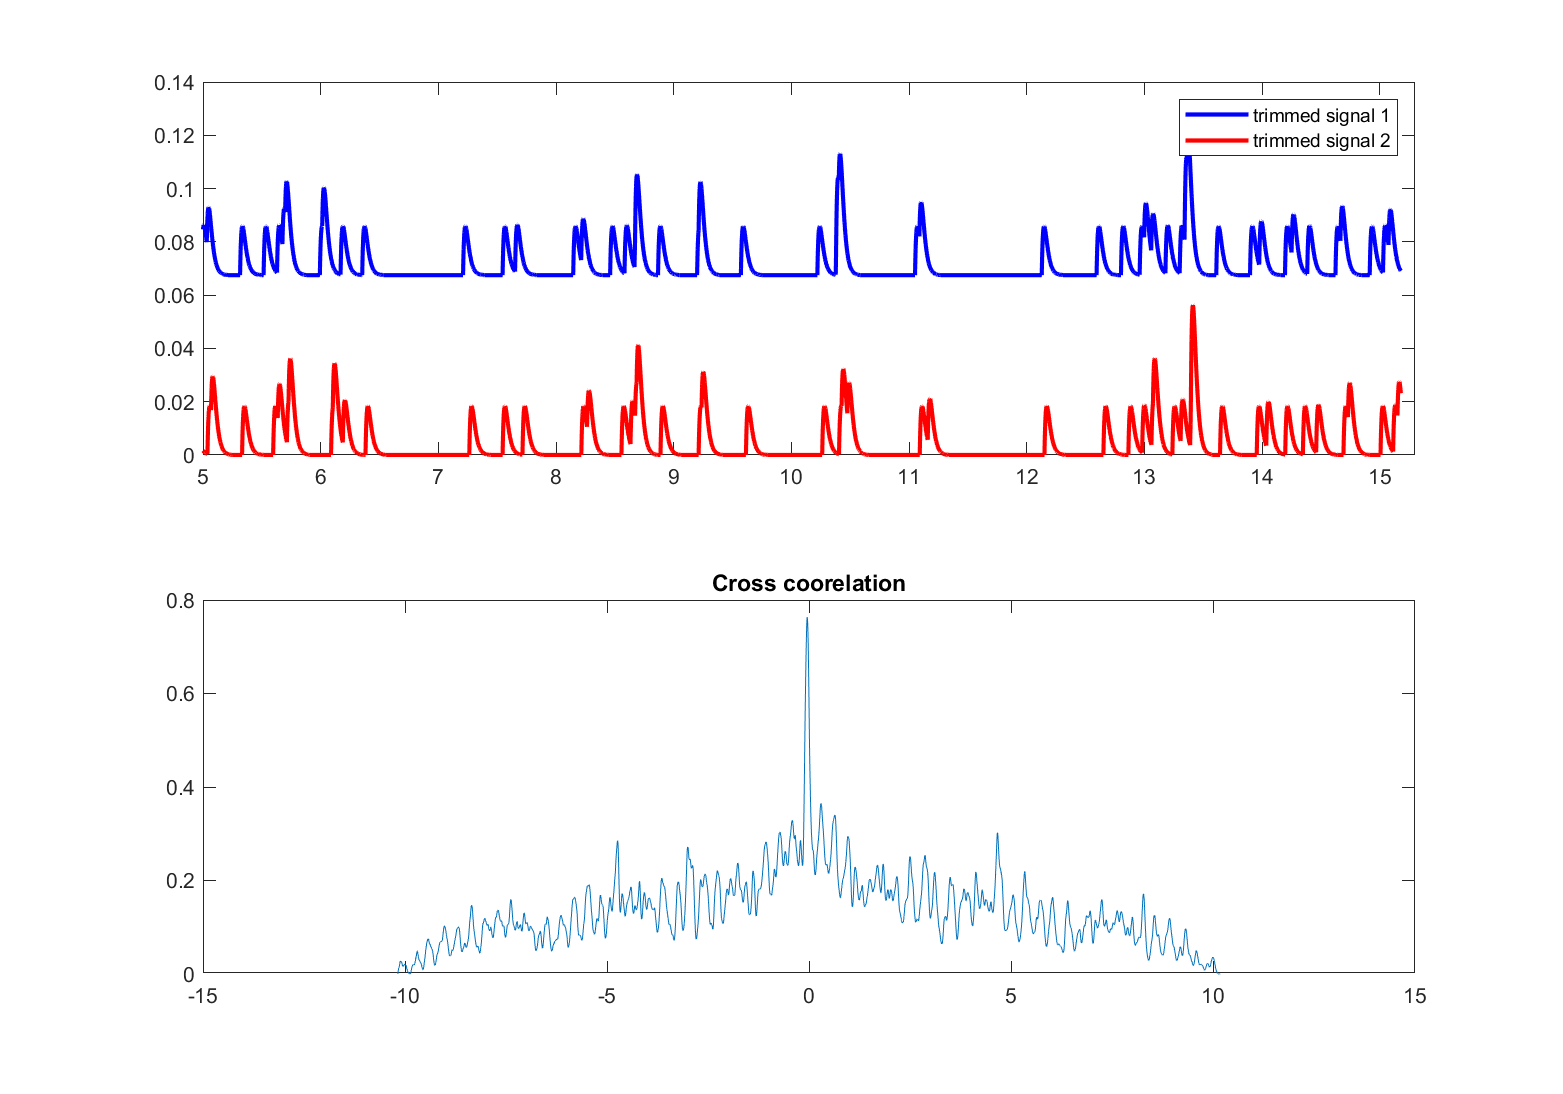
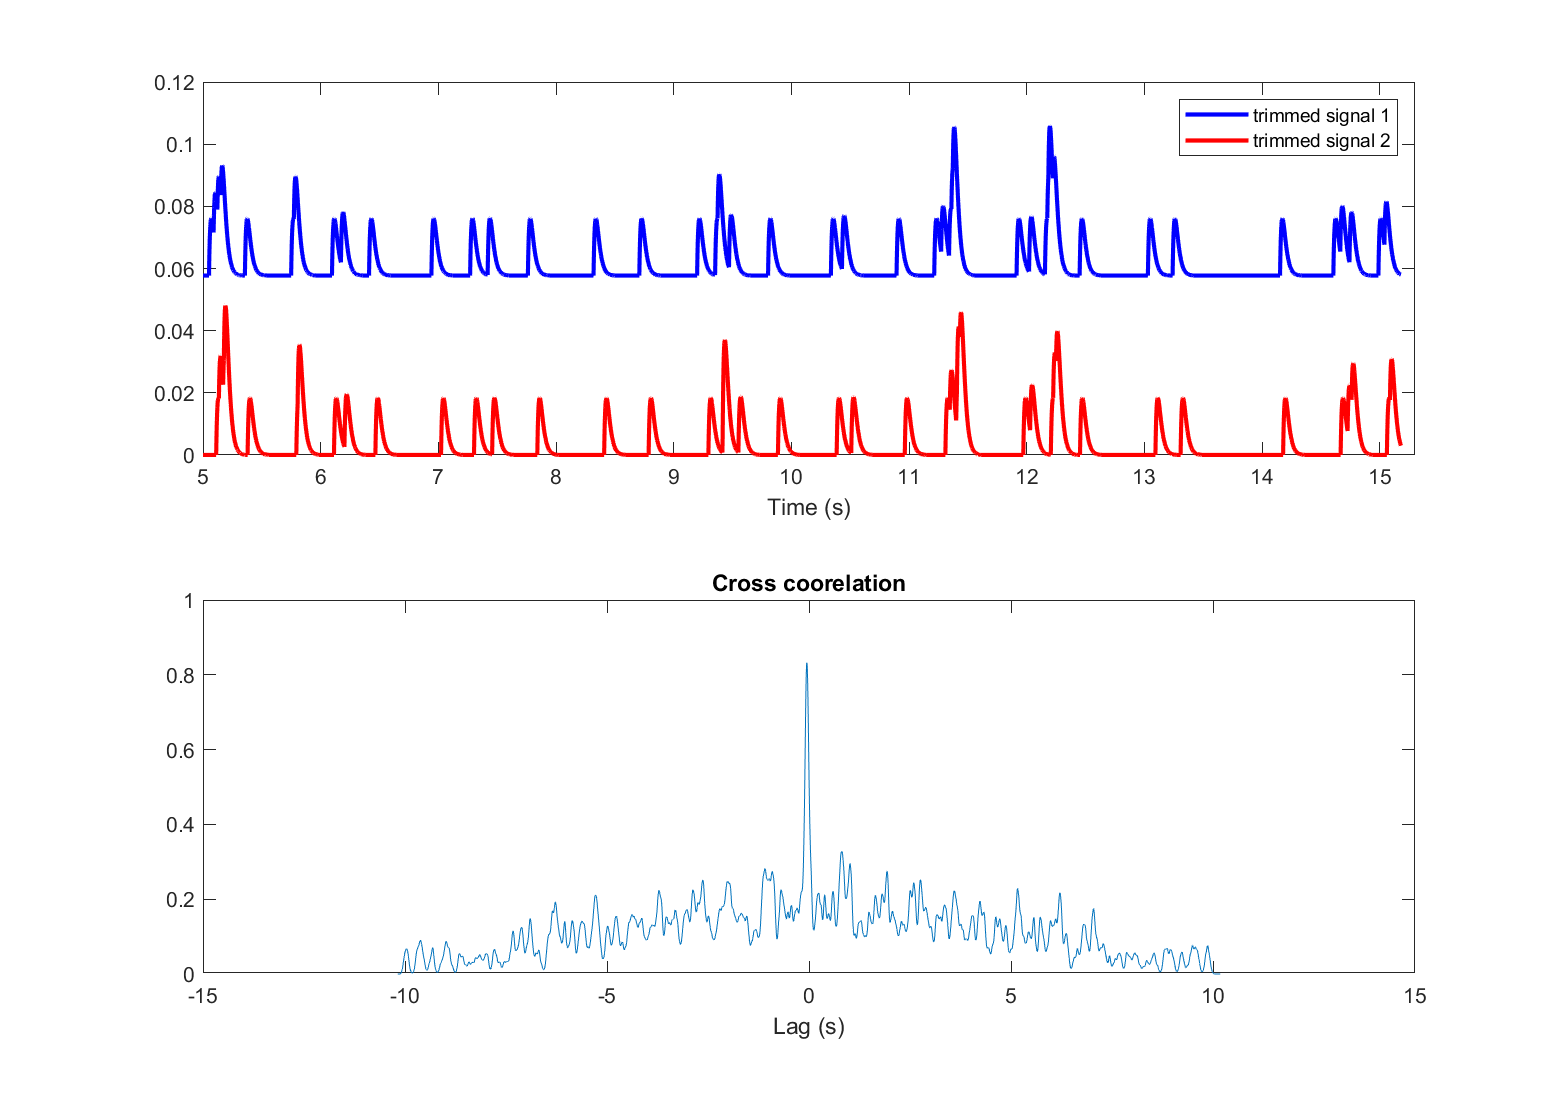
patch

diff --git a/model/TestingCrossCorrelation/simulate.m b/model/TestingCrossCorrelation/simulate.m
@@ -89,6 +89,7 @@ if 1
     title('Convoluted signal, i.e. the synaptic input')
     legend('Input to neuron 1','Input to neuron 2')
     xlim([0 P.tmax]) 
+    xlabel('Time (s)')
     saveas(gcf,'introduction','png'); %close
     
     
@@ -98,11 +99,13 @@ if 1
          P.buf:P.dt:P.tmax-P.buf+180*P.dt,trimdsignals.Y,'r','linewidth',2)
     legend('trimmed signal 1','trimmed signal 2')
     xlim([P.buf P.tmax-P.buf+0.3])
+    xlabel('Time (s)')
     subplot(2,1,2);
     plot(lags,corrCo)
     title('Cross coorelation')
+    xlabel('Lag (s)')
     saveas(gcf,'crossCo','png');
-    
+        
 end
 
 %% Functions
@@ -184,7 +187,7 @@ function [t2] = JitterTrain(t1,P)
     t2 = zeros(length(t1),1);
     t2(y) = 1;
     
-    if 1
+    if 0
         figure
         plot(P.t,t1); hold on;
         plot(P.t,t2);
